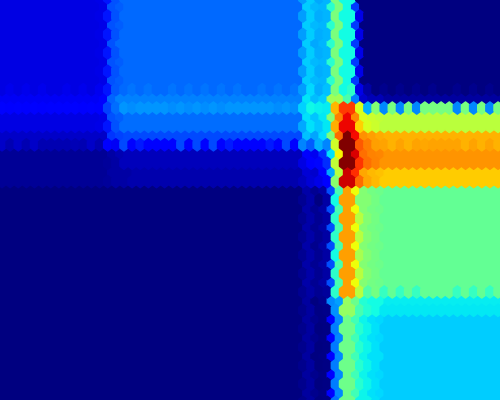
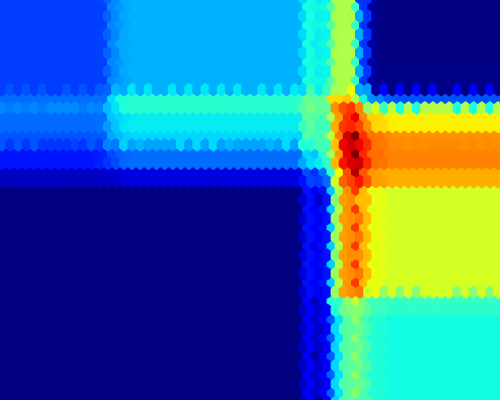
Fix EU for random forest

diff --git a/uncerainties.py b/uncerainties.py
@@ -52,13 +52,14 @@ def margin_uncertainties(X, y, X_test, model="RandomForest"):
             support = np.ceil([np.sum(1 / dist[i][y[indices[i]] == c]) for c in range(np.max(y) + 1)])
             aleatoric[i], epistemic[i] = compute_margin(support)
 
-    # Random Fores
+    # Random Forest
     elif model == "RandomForest":
         cls = RandomForestClassifier(min_samples_leaf=5)
         cls.fit(X, y)
         size = len(cls.estimators_)
         trees = [estimator.tree_ for estimator in cls.estimators_]
         leaf_indices = [estimator.apply(np.array(X_test)) for estimator in cls.estimators_]
+        leaf_depth = [np.sum(estimator.decision_path(X_test).toarray(), axis=1) - 1 for estimator in cls.estimators_]
 
         for i in range(X_test.shape[0]):
             aleatoric_temp = 0
@@ -68,7 +69,8 @@ def margin_uncertainties(X, y, X_test, model="RandomForest"):
                 leaf_index = leaf_indices[j][i]
                 support = trees[j].value[leaf_index][0]
                 support = support * trees[j].n_node_samples[leaf_index]
-
+                support = support * leaf_depth[j][i]
+                
                 al, ep = compute_margin(support)
                 aleatoric_temp += al
                 epistemic_temp += ep
